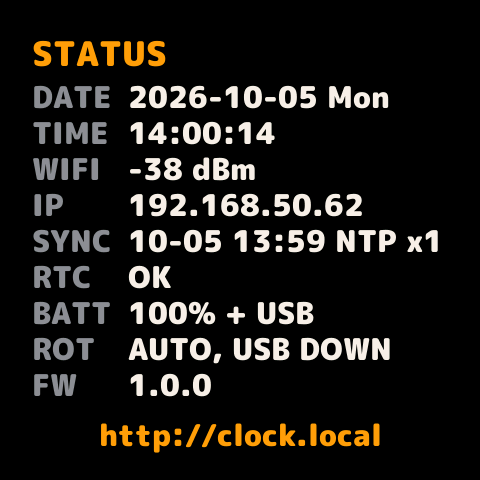
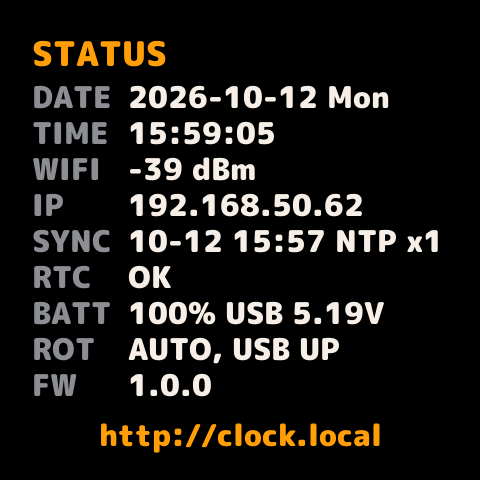
docs: describe the diagnostics
Where the record is (settings page, "diag", "status", the status page's
battery line), what it holds, how long it lasts, how to read the Wi-Fi
codes (a wrong password gave 2 and 202 on the test network) and that a
screenshot holds the main loop for about 2 s. The status page screenshot
is retaken with the new battery line; the Wi-Fi name is masked again.

diff --git a/README.md b/README.md
@@ -21,6 +21,7 @@ The screenshots are read back from a real board with `tools/screenshot.py`; the 
 - Burn-in protection: the whole face drifts 1 px every minute around a 12 × 12 loop (offsets −6…+5 px); every hour the side column swaps sides and the digits move 92 px; warm white instead of pure white; night dimming; screen-off schedule. Without a valid time ("--") the face still drifts every minute and swaps sides every hour of uptime; the Wi-Fi setup page drifts too and drops to the night brightness after 10 minutes without a press or tap.
 - Wi-Fi setup from a phone: the clock opens its own hotspot (random 12-character password) and shows a QR code to join it; the setup page opens by itself (captive portal).
 - Settings page at `http://clock.local` in Traditional Chinese or English (follows the browser language; switch at the top right). Changes are accepted only from the page itself, not from other web sites.
+- Diagnostics for Wi-Fi drops: every disconnect and failed attempt is recorded with the USB supply voltage at that moment (settings page, console).
 - Indicators: orange `SYNC` when the last NTP sync is more than 24 h old (or none succeeded in the first 5 minutes after start-up), red `BATT` when the battery is at 15 % or less without USB power.
 
 ## Hardware
@@ -105,7 +106,17 @@ Changes are accepted only from the page itself: it sends an `X-Clock` header tha
 .venv/bin/python tools/screenshot.py shot.png
 ```
 
-Commands (type `help`): `status`, `shot`, `btn boot|key|pwr|touch [short|long]`, `level <1-8>`, `rot auto|0|1|2|3`, `page clock|status|setup`, `settime <unix-epoch>`, `ntp`, `rtc` (RTC time, where its tick falls against the system clock's second, and its drift correction), `imu`, `reboot`, `factory yes`. The tools find the port by themselves on macOS and Linux; add `--port` to choose one. A screenshot ends with a CRC-32 of its pixels and is retried if the stream was damaged.
+Commands (type `help`): `status`, `shot`, `btn boot|key|pwr|touch [short|long]`, `level <1-8>`, `rot auto|0|1|2|3`, `page clock|status|setup`, `settime <unix-epoch>`, `ntp`, `rtc` (RTC time, where its tick falls against the system clock's second, and its drift correction), `diag` (Wi-Fi and USB power events since start-up), `imu`, `reboot`, `factory yes`. The tools find the port by themselves on macOS and Linux; add `--port` to choose one. A screenshot ends with a CRC-32 of its pixels and is retried if the stream was damaged.
+
+## Diagnostics
+
+When the clock keeps dropping off Wi-Fi, it records why, with the state of its power supply at that moment. The record lives in RAM: a restart clears it, moving the USB cable to another port or computer does not (the battery bridges the change).
+
+- Settings page, last section: the USB input voltage (now, lowest, highest) and the lowest system rail voltage, how often USB power was lost and how long the clock ran on battery, the PMU's input limits, Wi-Fi drops and failed attempts, offline time in all and the longest stretch, the failure codes, and the last 32 events (Wi-Fi up / lost / failed, USB power off / on) with the signal, the USB voltage, Wi-Fi power save and whether a computer (not a charger) is on the USB port.
+- Console: `diag` prints the same; `status` has a one-line summary.
+- Status page: the battery line shows the USB voltage (`99% CHG USB 5.01V`); while offline, the Wi-Fi line shows the reason.
+
+The codes are the Wi-Fi driver's (ESP-IDF `wifi_err_reason_t`). On the test network (WPA2/WPA3), a wrong password gave 2 AUTH_EXPIRE and 202 AUTH_FAIL; 2, 15 and 204 are also what timeouts (lost frames) give. Once the stored password has connected, such failures read "HANDSHAKE FAILED", before that "WRONG PASSWORD". The `shot` command holds the main loop while it streams a frame (about 2 s), which shows up as the longest loop.
 
 ## Tests
 
@@ -116,6 +127,7 @@ tests/run.sh
 ```
 
 - `tests/ntp_proto_test.cpp`: NTP packets. Timestamps across the 2036 era change, offset and delay, the error bound, and the replies that must be refused (another request's, kiss-o'-death, an unsynchronised server, malformed or impossible times).
+- `tests/diag_test.cpp`: the diagnostics bookkeeping. Offline time, the event log and its wrap-around, the failure code counts, the uptime across the 49.7-day `millis()` wrap.
 - `tests/timekeep_sim.cpp`: runs `src/timekeep.cpp` through 72 simulated hours per scenario against a PCF85063 model (crystal error, Offset correction pulses, STOP and release), an ESP32 clock that drifts, and NTP replies with uneven delays. 17 scenarios: crystals from −250 to +60 ppm and one beyond the register (−300), replies held up to 300 ms (Wi-Fi power save), a crystal swinging ±3 ppm a day, a time set by hand, NTP and Wi-Fi outages, a server answering with the year 2000, an RTC that lost power. Each checks the final Offset, how often it changed and how far the RTC strayed.
 
 All of it takes a few seconds and ends with "host tests passed" (exit status 0); `-v` also prints the firmware's log. The NTP task itself (`src/ntp.cpp`: sockets, DNS, timing) runs only on the board; its measurements are under Specifications.
@@ -144,6 +156,7 @@ The layout (column widths, date size, positions) is recalculated for the new fon
 | RTC | PCF85063 kept in UTC, marker byte 0xC7 in its RAM register | Ignored when the marker is missing, the oscillator-stop flag is set, or the time is more than a day before the firmware build date |
 | RTC setting | Written with STOP held; STOP released at x.500 s | The RTC on this board ticks 0.500 s after the release (datasheet: 0.507813–0.507935 s); its tick then falls +1…+3 ms after the system clock's second (`rtc` command). With a drift correction the tick also swings by up to 1/1024 s per Offset step every 4 minutes, as the correction pulses come once a second at the start of every 4th minute (measured at −21: +17 ms before them, −2 ms after). Written again when it is surely 100 ms off (beyond the sync's error bound), its correction changed, or the measured drift is implausible (over 260 ppm beyond the noise) |
 | RTC drift | Measured at every NTP sync against the time since the RTC was last set | Offset register in fast mode (4.069 ppm per step, applied every 4 minutes); changed when the drift exceeds half a step plus the uncertainty of the two measurements (correction pulses, half of each sync's round trip, the tick reads); a manually set time gives no base; kept in NVS for an RTC power loss (`factory yes` clears it; it is measured again at the second NTP sync after the restart). This board (firmware log): −85.0 ppm over the first 16 min (7.3 s a day slow) → Offset −21; then +2.4 ppm over 1.04 h (0.2 s a day fast) |
+| Diagnostics | Last 32 Wi-Fi and USB power events and counters since start-up, in RAM | Voltages read every 1 s; the PMU latches USB power loss, so short dips count too; `diag`, settings page |
 | Brightness | 8 levels: 3, 8, 16, 30, 55, 95, 160, 255 (register 0x51) | Saved to flash 5 s after the last change |
 | Night dimming | Default 23:00–07:00 | Same start and end disables it; may cross midnight |
 | Screen-off schedule | Default on, 03:00–09:00 | Switches only at the window edges; 30 s on after a press; never during Wi-Fi setup |

diff --git a/README.zh-TW.md b/README.zh-TW.md
@@ -21,6 +21,7 @@
 - 防烙印：整個畫面每分鐘移動 1 像素，走 12 × 12 的封閉迴圈（位移 −6～+5 px）；側欄每小時左右換邊，大數字隨之移動 92 px；使用暖白色而非純白；夜間調暗；定時關閉。沒有有效時間（顯示「--」）時仍每分鐘移動、依開機時數每小時換邊；Wi-Fi 設定頁也會移動，10 分鐘沒有按鍵或輕觸就降到夜間亮度。
 - 用手機設定 Wi-Fi：時鐘會開啟自己的熱點（12 字元隨機密碼）並在螢幕顯示 QR code，連上後設定頁自動跳出（captive portal）。
 - 設定網頁 `http://clock.local`，可切換繁體中文／English（預設跟隨瀏覽器語言，右上角切換）。只接受從本頁送出的修改，其他網站無法代送。
+- Wi-Fi 斷線診斷：每次斷線與連線失敗都會連同當下的 USB 供電電壓一起記錄（設定網頁、序列埠指令）。
 - 提示：距上次對時超過 24 小時（或開機 5 分鐘內都沒有對時成功）顯示橘色 `SYNC`；只用電池且電量 15% 以下顯示紅色 `BATT`。
 
 ## 使用硬體
@@ -105,7 +106,17 @@ mkdir -p backup
 .venv/bin/python tools/screenshot.py shot.png
 ```
 
-指令（輸入 `help` 查看）：`status`、`shot`、`btn boot|key|pwr|touch [short|long]`、`level <1-8>`、`rot auto|0|1|2|3`、`page clock|status|setup`、`settime <unix-epoch>`、`ntp`、`rtc`（RTC 時間、它跳秒時落在系統時鐘那一秒的哪裡，以及快慢補償值）、`imu`、`reboot`、`factory yes`。在 macOS／Linux 上工具會自動找連接埠；要指定時加上 `--port`。截圖資料結尾附 CRC-32，傳輸損壞時會自動重試。
+指令（輸入 `help` 查看）：`status`、`shot`、`btn boot|key|pwr|touch [short|long]`、`level <1-8>`、`rot auto|0|1|2|3`、`page clock|status|setup`、`settime <unix-epoch>`、`ntp`、`rtc`（RTC 時間、它跳秒時落在系統時鐘那一秒的哪裡，以及快慢補償值）、`diag`（開機以來的 Wi-Fi 與 USB 電源事件）、`imu`、`reboot`、`factory yes`。在 macOS／Linux 上工具會自動找連接埠；要指定時加上 `--port`。截圖資料結尾附 CRC-32，傳輸損壞時會自動重試。
+
+## 診斷
+
+時鐘如果常常斷線，會記錄原因，以及當下的電源狀態。紀錄存在 RAM：重新開機會清除，但把 USB 線改插到別的連接埠或電腦不會（換插期間由電池供電）。
+
+- 設定網頁最下方：USB 輸入電壓（目前、最低、最高）與系統電壓最低值、USB 斷電次數與用電池的總時間、電源晶片的輸入上限、Wi-Fi 斷線與連線失敗次數、累計與最長的離線時間、失敗代碼，以及最近 32 筆事件（Wi-Fi 連上／斷線／連線失敗、USB 斷電／恢復），每筆附上訊號、USB 電壓、Wi-Fi 省電狀態，以及 USB 接的是電腦還是充電器。
+- 序列埠：`diag` 印出同樣的內容；`status` 有一行摘要。
+- 狀態頁：電池那一行顯示 USB 電壓（`99% CHG USB 5.01V`）；離線時 Wi-Fi 那一行顯示原因。
+
+代碼是 Wi-Fi 驅動程式的（ESP-IDF `wifi_err_reason_t`）。在測試網路（WPA2/WPA3）上，密碼錯誤得到的是 2 AUTH_EXPIRE 與 202 AUTH_FAIL；2、15、204 也是逾時（封包遺失）時會出現的代碼。已存的密碼連線成功過之後，這類失敗顯示「HANDSHAKE FAILED」（交握失敗），在那之前顯示「WRONG PASSWORD」。`shot` 指令傳送畫面時（約 2 秒）主迴圈會停住，會顯示成最長的一次迴圈。
 
 ## 測試
 
@@ -116,6 +127,7 @@ tests/run.sh
 ```
 
 - `tests/ntp_proto_test.cpp`：NTP 封包。包括跨 2036 年紀元的時間換算、偏移與延遲計算、誤差上限，以及應該拒收的回應（別的請求的回應、kiss-o'-death、伺服器本身未同步、格式錯誤或不可能的時間）。
+- `tests/diag_test.cpp`：診斷的記帳邏輯。包括離線時間、事件紀錄與循環覆寫、失敗代碼統計、`millis()` 49.7 天歸零前後的運作時間。
 - `tests/timekeep_sim.cpp`：讓 `src/timekeep.cpp` 在模擬環境中每個情境跑 72 小時。模擬的對象有 PCF85063（晶振誤差、Offset 補償脈衝、STOP 與放開）、會漂移的 ESP32 時鐘，以及來回延遲不對稱的 NTP 回應。17 個情境：晶振 −250～+60 ppm 與超出暫存器範圍的 −300 ppm、回應最多延遲 300 ms（Wi-Fi 省電）、每天擺動 ±3 ppm 的晶振、手動設定時間、NTP 與 Wi-Fi 中斷、伺服器回傳 2000 年、RTC 斷電。每個情境檢查最後的 Offset、改了幾次，以及 RTC 最多偏多少。
 
 全部跑完只要幾秒，通過時最後一行是「host tests passed」（結束碼 0）；加 `-v` 會另外印出韌體的 log。NTP 背景任務本身（`src/ntp.cpp`：socket、DNS、計時）只能在板子上跑，實測數據見「規格」。
@@ -144,6 +156,7 @@ tests/run.sh
 | RTC | PCF85063 存 UTC，RAM 位元組寫入標記 0xC7 | 沒有標記、振盪器停止旗標為 1、或時間早於韌體編譯日前一天時不採用 |
 | RTC 寫入 | 按住 STOP 寫入，在 x.500 秒放開 | 這片板子的 RTC 在放開後 0.500 秒跳秒（規格書：0.507813–0.507935 秒）；寫入後跳秒落在系統時鐘整秒後 +1～+3 ms（`rtc` 指令實測）。有快慢補償時，跳秒位置還會每 4 分鐘擺動，每格 Offset 最多 1/1024 秒，因為補償脈衝集中在每第 4 分鐘的開頭、每秒一次（−21 實測：脈衝前 +17 ms、脈衝後 −2 ms）。誤差扣掉對時的誤差上限後仍達 100 ms、補償值改變，或量到不合理的快慢（扣掉雜訊仍超過 260 ppm）時才重寫 |
 | RTC 快慢 | 每次 NTP 對時量測，與上次寫入後經過的時間比較 | 用 Offset 暫存器補償（快速模式，每格 4.069 ppm，每 4 分鐘套用）；快慢超過「半格＋兩次量測的不確定度」（補償脈衝、每次對時來回時間的一半、讀跳秒）才調整；手動設定的時間不當基準；補償值存在 NVS，RTC 斷電後會寫回（`factory yes` 會一併清掉，重開機後第二次 NTP 對時重新量測）。這片板子（韌體 log）：前 16 分鐘量到 −85.0 ppm（每天慢 7.3 秒）→ Offset −21；之後 1.04 小時量到 +2.4 ppm（每天快 0.2 秒） |
+| 診斷 | 最近 32 筆 Wi-Fi 與 USB 電源事件，以及開機以來的統計，存在 RAM | 每秒讀一次電壓；USB 斷電由電源晶片鎖存，短暫中斷也算得到；`diag` 指令、設定網頁 |
 | 亮度 | 8 段：3、8、16、30、55、95、160、255（暫存器 0x51） | 最後一次調整 5 秒後才寫入 flash |
 | 夜間調暗 | 預設 23:00–07:00 | 開始＝結束時停用；可跨午夜 |
 | 定時關閉 | 預設啟用，03:00–09:00 | 只在時段開始／結束時切換；按鍵後亮 30 秒；Wi-Fi 設定中不關閉 |
